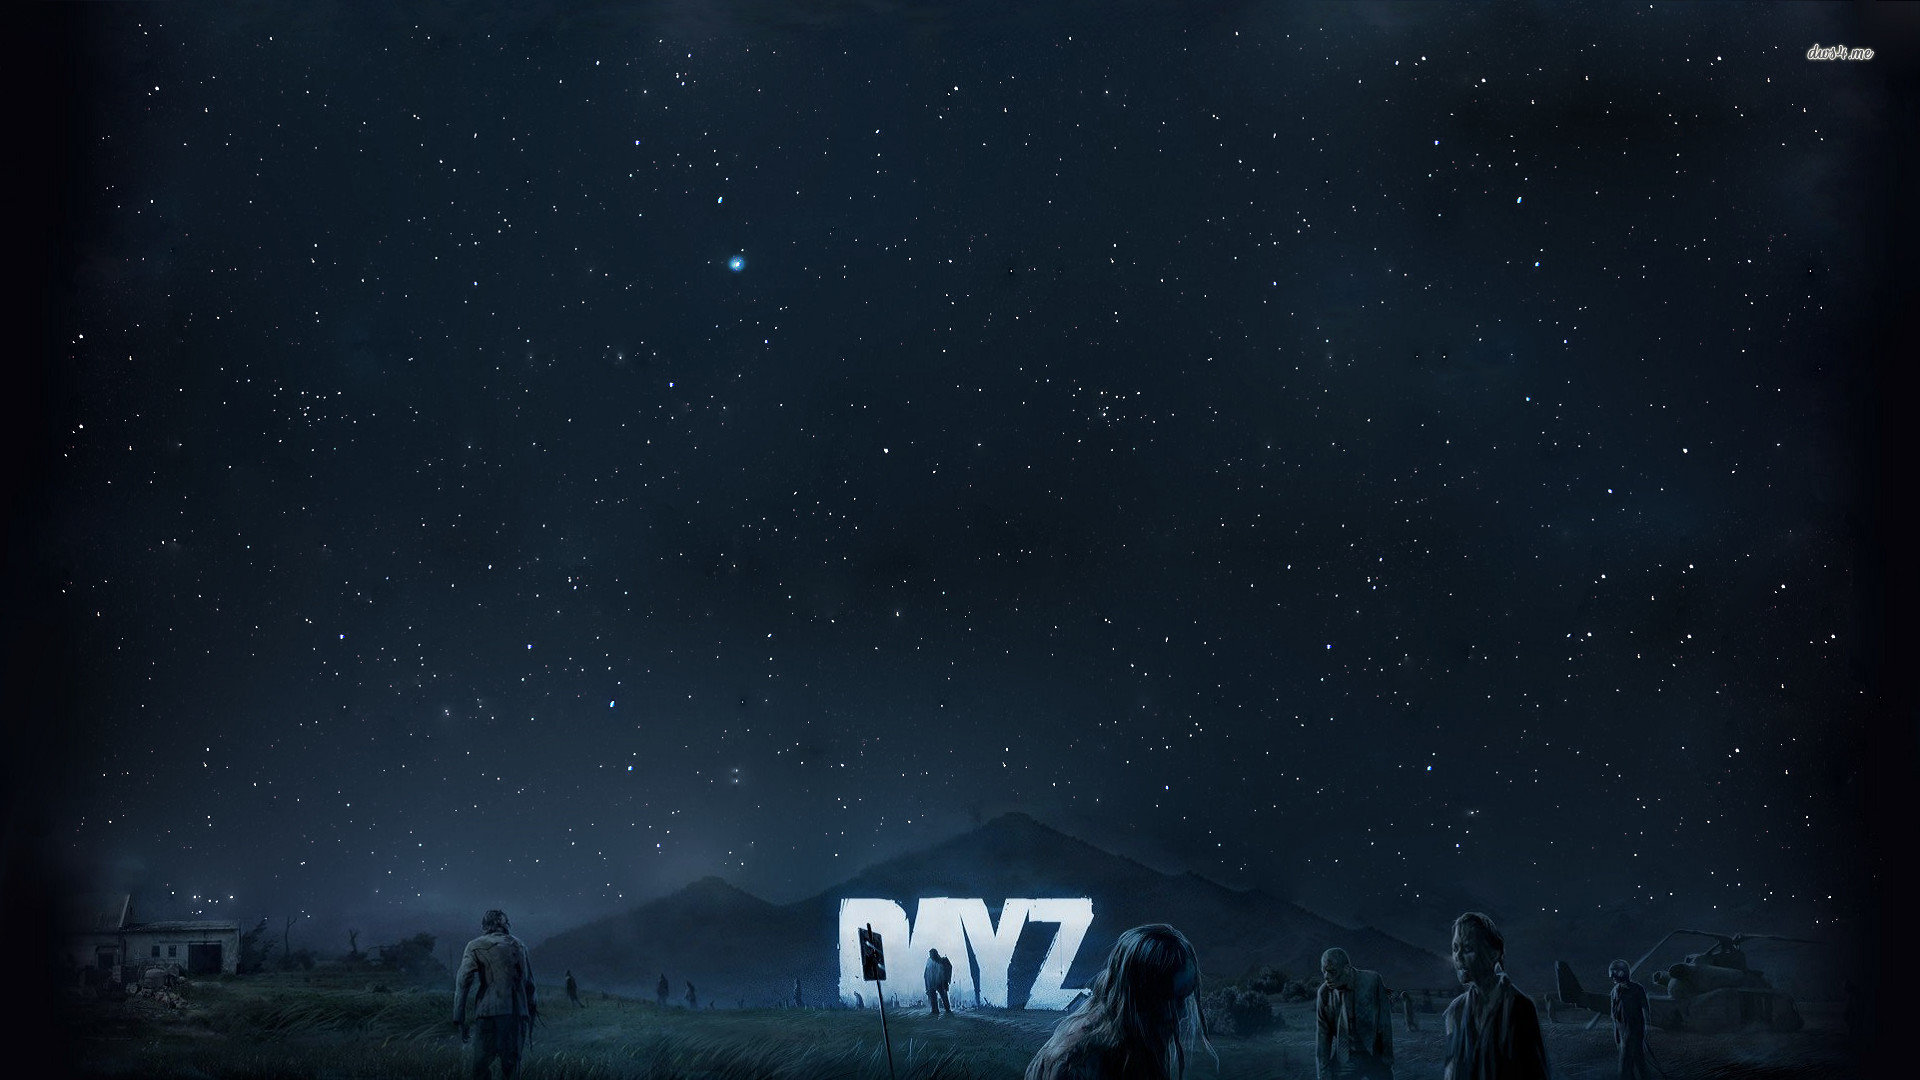
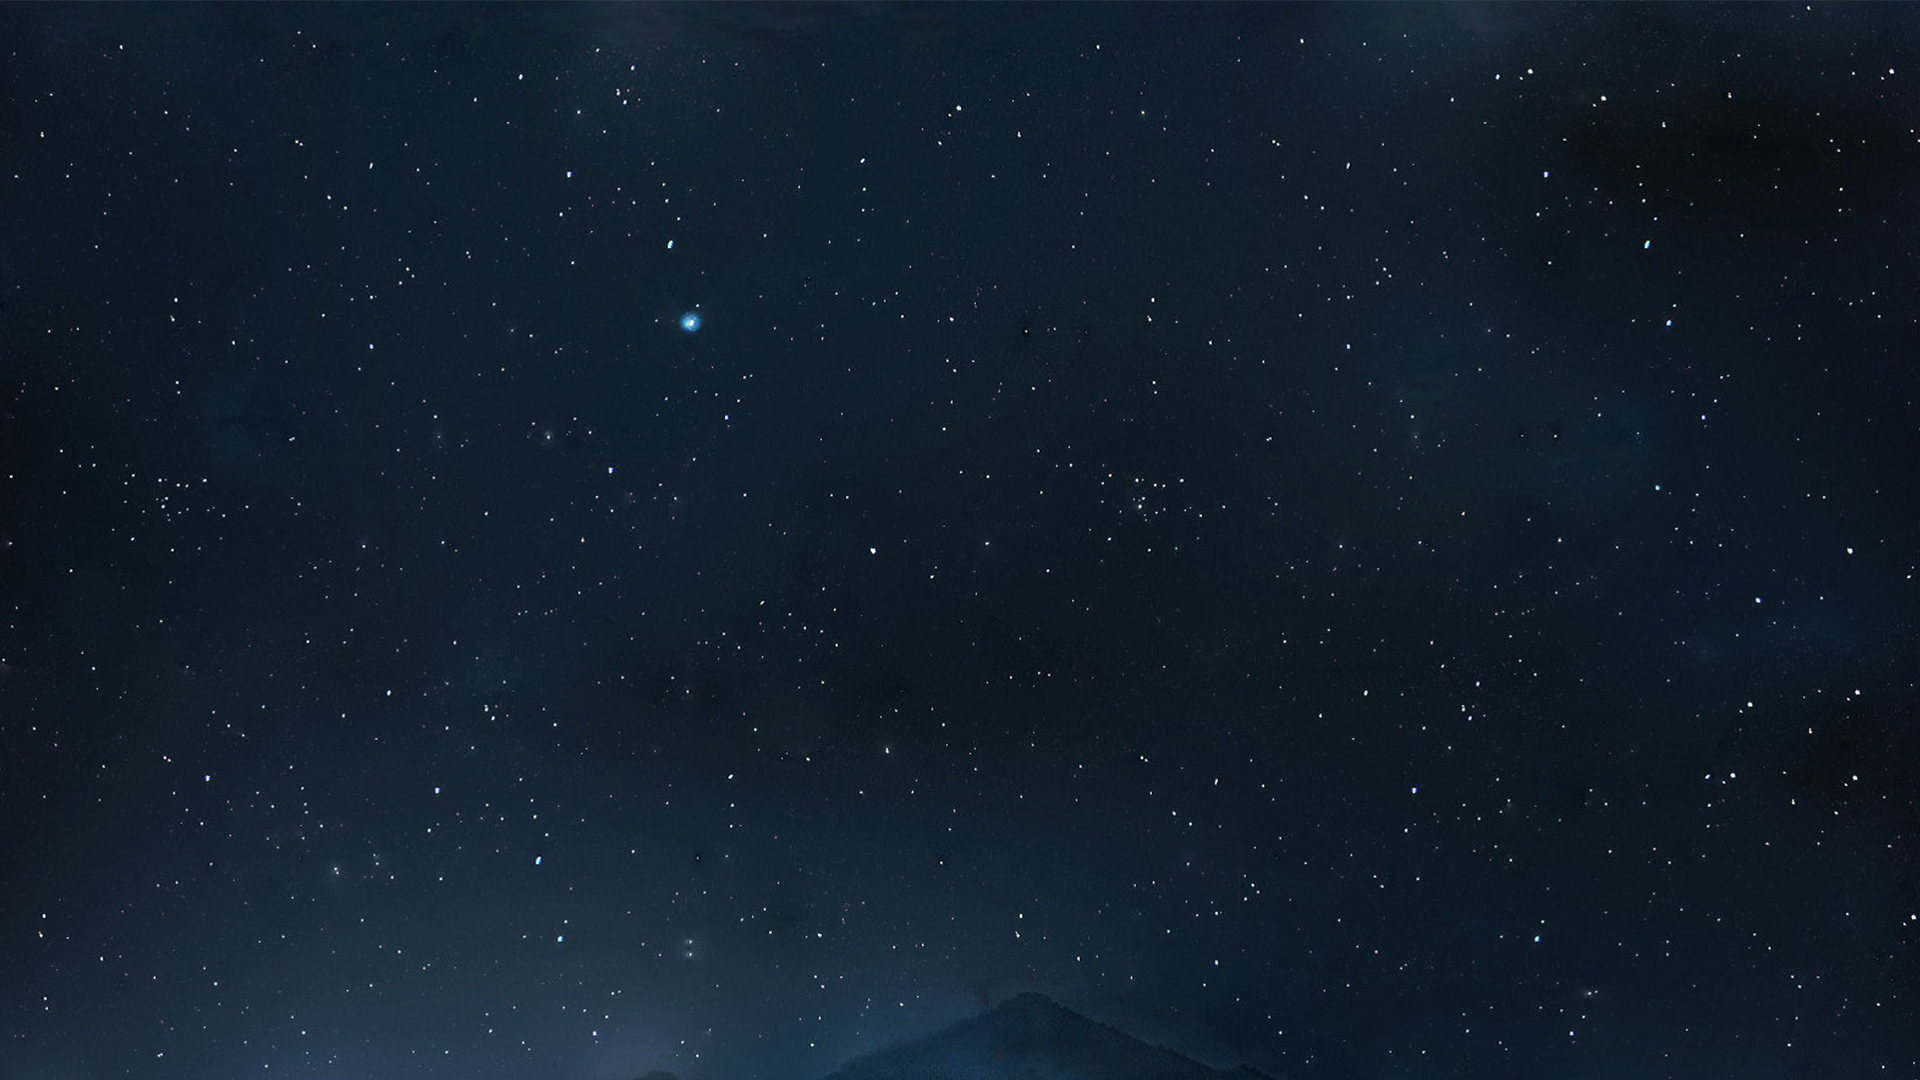
update image fond + responsive Ipad

diff --git a/index.html b/index.html
@@ -104,7 +104,7 @@
 				<div class="span4 offset1">
 					<div>
 						<h2>Le roleplay <strong>sans prise de tête</strong></h2>
-						<p>
+						<p id="descpar">
 							Altis Real Life, c'est du jeu sans prise de tête avec des joueurs pasionnés par le Roleplay !
 							Une mission modée par nos soins pour vous proposer une expérience de jeu inédite.
 							Du beau mapping, l'armée de l'air et de terre pour vous protéger ...

diff --git a/css/style.css b/css/style.css
@@ -1645,7 +1645,15 @@ i.icon-white {
 	.contactp{
 		text-align: center;
 	}
+}
 
+@media (min-width: 410px) and (max-height: 740px) {
+	/*Ipad media querie*/
+
+	#descpar{
+		padding-top:150px;
+		text-align: center;
+	}
 
 }
 
